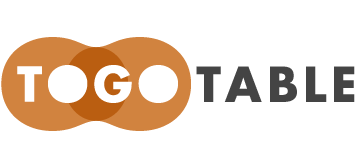
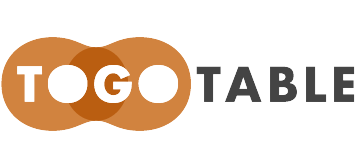
update image transparency and fix json

diff --git a/research.html b/research.html
@@ -213,7 +213,7 @@
               <li>
                 <div class="reference-ja">戦略的イノベーション創造プログラム (SIP)</div>
                 <ul class="sublist">
-                  <li>
+                  <li class="tooltip" id="SIPDatabase">
                     <a target="_blank" href="https://sip-db.dbcls.jp/">スマートバイオ産業・農業基盤技術関連データ</a>
                   </li>
                 </ul>
@@ -235,90 +235,43 @@
               <li>
                 <div class="reference-ja">RDF 検索支援ツール</div>
                 <ul class="sublist">
-                  <li>
-                    <a target="_blank" href="http://togogenome.org/"><img src="img/service_assets/TogoGenome.svg"></a>
+                  <li class="tooltip" id="Umaka-Yummy/Data">
+                    <a target="_blank" href="http://d.umaka.dbcls.jp/"><img
+                        src="img/service_assets/Umaka_Yummy_Data.png"></a>
                   </li>
-                  <li>
-                    <a target="_blank" href="http://sra.dbcls.jp/"><img src="img/service_assets/DBCLS_SRA.png">
-                      <div>DBCLS SRA</div>
-                    </a>
+                  <li class="tooltip" id="SPARQLBuilder">
+                    <a target="_blank" href="http://www.sparqlbuilder.org/"><img
+                        src="img/service_assets/SPARQL_Builder.png"></a>
                   </li>
-                  <li>
-                    <a target="_blank" href="http://refex.dbcls.jp/"><img src="img/service_assets/RefEx.png"></a>
+                  <li class="tooltip" id="Endpoint browser">
+                    <a target="_blank" href="http://sparql-support.dbcls.jp/"><img
+                        src="img/service_assets/endpoint-browser.png">SPARQL support</a>
                   </li>
-                  <li>
-                    <a target="_blank" href="http://aoe.dbcls.jp/"><img src="img/service_assets/AOE.svg"></a>
+                  <li class="tooltip" id="SPARQList">
+                    <a target="_blank" href="https://github.com/dbcls/sparqlist"><img
+                        src="img/service_assets/SPARQList.png">SPARQList</a>
                   </li>
-                  <li>
-                    <a target="_blank" href="https://GGRNA.dbcls.jp/"><img src="img/service_assets/GGRNA_new.png"></a>
+                  <li class="tooltip" id="SPANG">
+                    <a target="_blank" href="http://spang.dbcls.jp/"><img src="img/service_assets/spang.png">SPANG</a>
                   </li>
-                  <li>
-                    <a target="_blank" href="https://GGGenome.dbcls.jp/"><img
-                        src="img/service_assets/GGGenome_en2021.svg"></a>
+                  <li class="tooltip" id="SPARQL-proxy">
+                    <a target="_blank" href="https://github.com/dbcls/sparql-proxy"><img
+                        src="img/service_assets/SPARQL_proxy.png">SPARQL-proxy</a>
                   </li>
-                  <li>
-                    <a target="_blank" href="http://gendoo.dbcls.jp/"><img src="img/service_assets/gendoo.png"></a>
+                  <li class="tooltip" id="TogoStanza">
+                    <a target="_blank" href="http://togostanza.org/"><img
+                        src="img/service_assets/TogoStanza.png">TogoStanza</a>
                   </li>
-                </ul>
-              </li>
-            </ul>
-            <ul class="research__list">
-              <li>
-                <div class="reference-ja">自然言語による統合検索</div>
-                <ul class="sublist">
-                  <li>
-                    <a target="_blank" href="https://www.lodqa.org/"><img src="img/service_assets/LODQA.svg"></a>
+                  <li class="tooltip" id="d3sparql.js">
+                    <a target="_blank" href="http://biohackathon.org/d3sparql/"><img
+                        src="img/service_assets/d3sparql.js.png">d3sparql.jp</a>
                   </li>
-                </ul>
-              </li>
-            </ul>
-            <ul class="research__list">
-              <li>
-                <div class="reference-ja">応用ツール</div>
-                <ul class="sublist">
-                  <li>
-                    <a target="_blank" href="https://pubcasefinder.dbcls.jp/"><img
-                        src="img/service_assets/PubCaseFinder.png"></a>
+                  <li class="tooltip" id="TogoTable">
+                    <a target="_blank" href="http://togotable.dbcls.jp"><img
+                        src="img/service_assets/TogoTable.png">TogoTable</a>
                   </li>
-                  <li>
-                    <a target="_blank" href="https://crispr.dbcls.jp/"><img
-                        src="img/service_assets/CRISPRdirect.svg"></a>
-                  </li>
-                </ul>
-              </li>
-            </ul>
-            <ul class="research__list">
-              <li>
-                <div class="reference-ja">コンテンツ</div>
-                <ul class="sublist">
-                  <li>
-                    <a target="_blank" href="http://first.lifesciencedb.jp/"><img
-                        src="img/service_assets/201904_FA.svg"></a>
-                  </li>
-                  <li>
-                    <a target="_blank" href="http://first.lifesciencedb.jp/"><img
-                        src="img/service_assets/201904_LA.svg"></a>
-                  </li>
-                  <li>
-                    <a target="_blank" href="http://togotv.dbcls.jp/"><img src="img/service_assets/TogoTV2020.svg"></a>
-                  </li>
-                  <li>
-                    <a target="_blank" href="http://lifesciencedb.jp/bp3d/?lng=enhttp://qa.lifesciencedb.jp/"><img
-                        src="img/service_assets/BodyParts3D_Anatomography.svg"></a>
-                  </li>
-                  <li>
-                    <a target="_blank" href="http://qa.lifesciencedb.jp/"><img
-                        src="img/service_assets/lifescience-qa.png"></a>
-                  </li>
-                </ul>
-              </li>
-            </ul>
-            <ul class="research__list">
-              <li>
-                <div class="reference-ja">戦略的イノベーション創造プログラム (SIP)</div>
-                <ul class="sublist">
-                  <li>
-                    <a target="_blank" href="https://sip-db.dbcls.jp/">スマートバイオ産業・農業基盤技術関連データ</a>
+                  <li class="tooltip" id="TogoWS">
+                    <a target="_blank" href="http://togows.org/"><img src="img/service_assets/TogoWS.png">TogoWS</a>
                   </li>
                 </ul>
               </li>
@@ -459,7 +412,8 @@
                     <a target="_blank" href="https://GGRNA.dbcls.jp/"><img src="img/service_assets/GGRNA_new.png"></a>
                   </li>
                   <li>
-                    <a target="_blank" href="https://GGGenome.dbcls.jp/"><img src="img/service_assets/GGGenome_en2021.svg"></a>
+                    <a target="_blank" href="https://GGGenome.dbcls.jp/"><img
+                        src="img/service_assets/GGGenome_en2021.svg"></a>
                   </li>
                   <li>
                     <a target="_blank" href="http://gendoo.dbcls.jp/"><img src="img/service_assets/gendoo.png"></a>
@@ -486,7 +440,8 @@
                         src="img/service_assets/PubCaseFinder.png"></a>
                   </li>
                   <li>
-                    <a target="_blank" href="https://crispr.dbcls.jp/"><img src="img/service_assets/CRISPRdirect.svg"></a>
+                    <a target="_blank" href="https://crispr.dbcls.jp/"><img
+                        src="img/service_assets/CRISPRdirect.svg"></a>
                   </li>
                 </ul>
               </li>
@@ -496,10 +451,12 @@
                 <div class="reference-ja">コンテンツ</div>
                 <ul class="sublist">
                   <li>
-                    <a target="_blank" href="http://first.lifesciencedb.jp/"><img src="img/service_assets/201904_FA.svg"></a>
+                    <a target="_blank" href="http://first.lifesciencedb.jp/"><img
+                        src="img/service_assets/201904_FA.svg"></a>
                   </li>
                   <li>
-                    <a target="_blank" href="http://first.lifesciencedb.jp/"><img src="img/service_assets/201904_LA.svg"></a>
+                    <a target="_blank" href="http://first.lifesciencedb.jp/"><img
+                        src="img/service_assets/201904_LA.svg"></a>
                   </li>
                   <li>
                     <a target="_blank" href="http://togotv.dbcls.jp/"><img src="img/service_assets/TogoTV2020.svg"></a>
@@ -509,7 +466,8 @@
                         src="img/service_assets/BodyParts3D_Anatomography.svg"></a>
                   </li>
                   <li>
-                    <a target="_blank" href="http://qa.lifesciencedb.jp/"><img src="img/service_assets/lifescience-qa.png"></a>
+                    <a target="_blank" href="http://qa.lifesciencedb.jp/"><img
+                        src="img/service_assets/lifescience-qa.png"></a>
                   </li>
                 </ul>
               </li>
